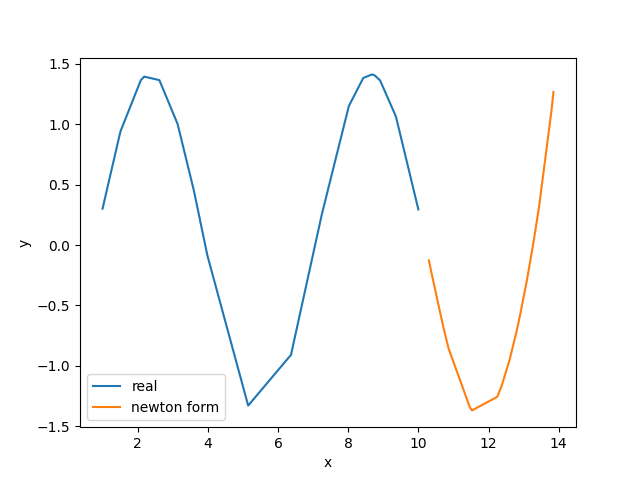
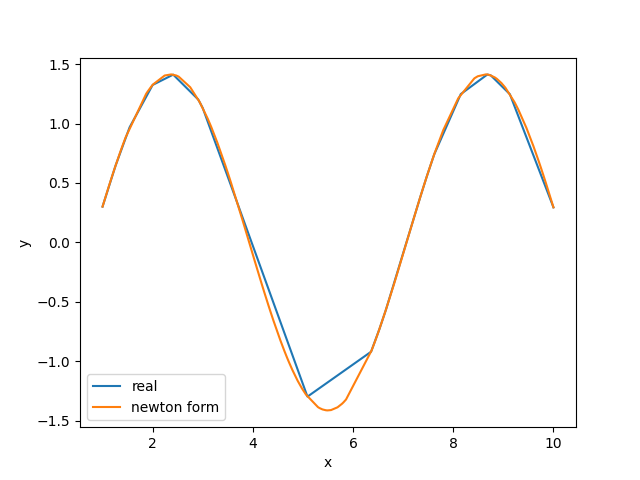
improved exercise 1

diff --git a/tema 06/main.py b/tema 06/main.py
@@ -3,6 +3,7 @@ import random
 import matplotlib.pyplot as plt
 
 from lagrange import LagrangePolynom
+from leastsquares import LeastSquaresInterpolation
 
 
 def f(x):
@@ -37,10 +38,7 @@ def main():
     xn = 10.0
     offset = 3.75
 
-    x = [x0]
-    for i in range(1, n):
-        x.append(round(random.uniform(x0 + eps, xn - eps), 2))
-    x.append(xn)
+    x = [round(random.uniform(x0 + eps, xn - eps), 2) for _ in range(1, n)] + [x0, xn]
     x.sort()
 
     y = []
@@ -51,20 +49,27 @@ def main():
     lag = LagrangePolynom()
     lag.create_polynom(x, y)
 
-    x_calc = []
-    for i in range(20):
-        x_calc.append(round(random.uniform(xn, xn + offset), 2))
+    x_calc = [round(random.uniform(x0 + eps, xn - eps), 2) for _ in range(1, 100)] + [x0, xn]
     x_calc.sort()
 
-    y_calc = []
-
-    for i in range(len(x_calc)):
-        y_calc.append(lag.fun(x_calc[i]))
+    y_calc = [lag.fun(val) for val in x_calc]
 
     x_full = x + x_calc
     show_plot(x, y, x_calc, y_calc, 'newton form')
 
     print('Newton Form Difference:\n', get_difference(x_full, lag))
+
+    # Exercise 2
+    # m = 5
+    # leastsq = LeastSquaresInterpolation(5)
+    # leastsq.create_polynom(x, y)
+    #
+    # y_calc = []
+    #
+    # for i in range(len(x)):
+    #     y_calc.append(leastsq.fun(x[i]))
+    #
+    # show_plot(x, y, x, y_calc, 'lest square')
 
 
 if __name__ == '__main__':

diff --git a/tema 06/leastsquares.py b/tema 06/leastsquares.py
@@ -1,0 +1,51 @@
+import numpy as np
+
+
+class LeastSquaresInterpolation:
+    def __init__(self, m):
+        self.m = m
+        self.coeff = []
+
+    def create_polynom(self, x, y):
+        self.coeff = []
+
+        B = np.zeros((self.m + 1, self.m + 1), dtype='float32')
+
+        m = self.m
+        n = len(x) - 1
+
+        # Construct B
+        for i in range(m + 1):
+            for j in range(m + 1):
+                su = 0
+
+                for k in range(n + 1):
+                    su += (x[k] ** (i + j))
+
+                B[i, j] = su
+
+        # Construct F
+        f = np.zeros((1, m + 1), dtype='float32')
+
+        for i in range(m + 1):
+
+            su = 0
+            for k in range(n + 1):
+                su += (y[k] * (x[k] ** i))
+
+            f[0, i] = su
+
+        # Compute alpha
+        alpha = np.linalg.solve(B, f.transpose())
+        alpha = np.array(alpha).transpose()
+
+        self.coeff = [val for val in alpha[0]]
+        # F = a0 + a1 * x + a2 * x^2 .... + am * x^m
+
+    def fun(self, x):
+        d = self.coeff[0]
+
+        for i in range(1, self.m + 1):
+            d = self.coeff[i] + d * x
+
+        return d
